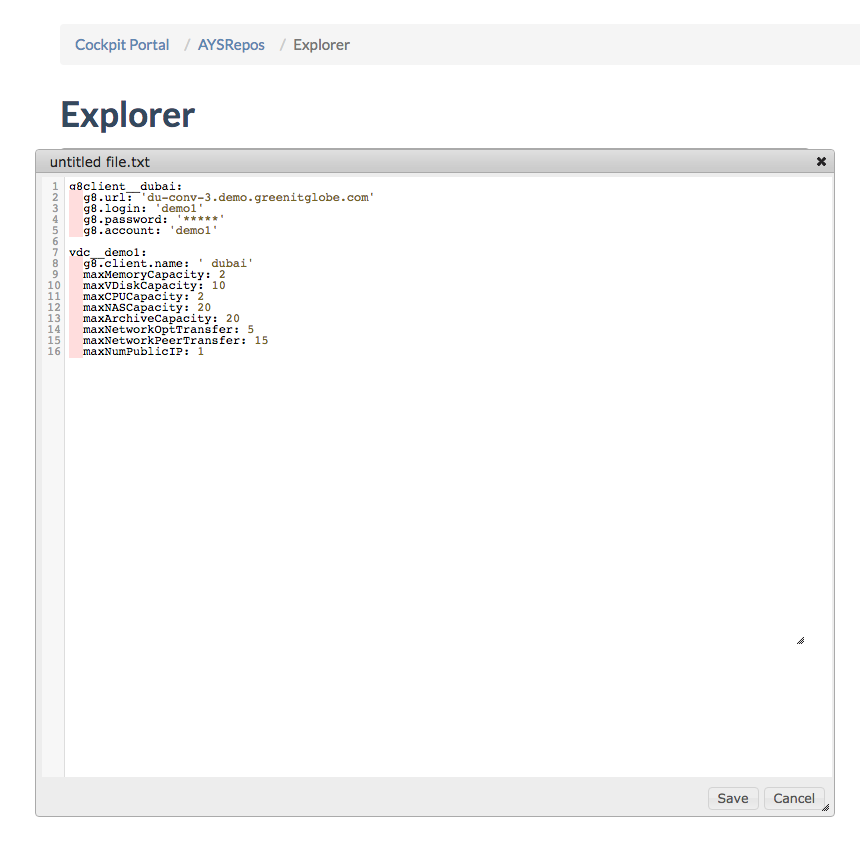
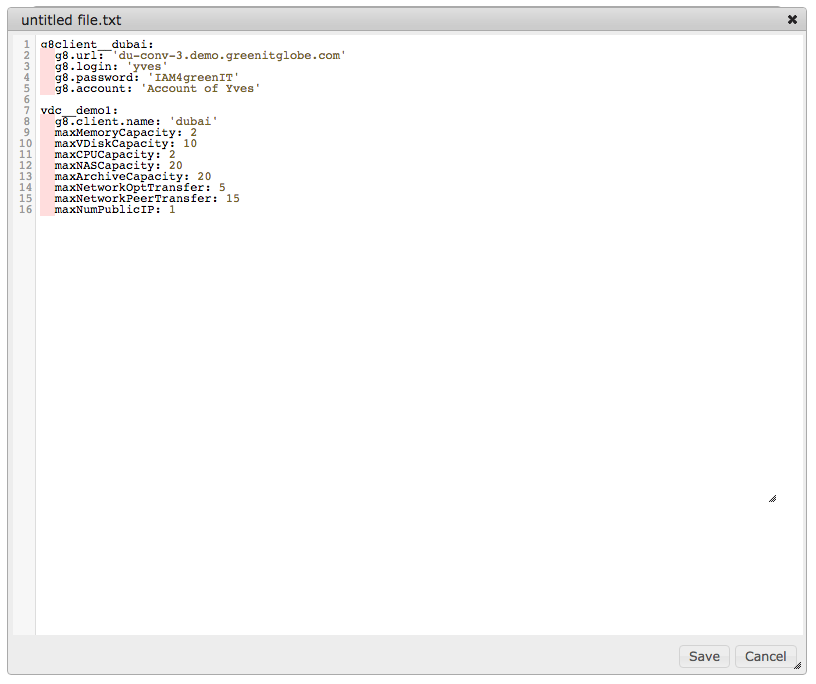
Updates some screenshots

Changed region(s): [[0.0, 0.0, 1.0, 0.4298], [0.8272, 0.9211, 0.9804, 0.9825]]

diff --git a/docs/usage/getting_started_with_blueprints.md b/docs/usage/getting_started_with_blueprints.md
@@ -43,12 +43,12 @@ Now that you have your repository ready, the next step is to create the blueprin
 ```yaml
 g8client__dubai:
   g8.url: 'du-conv-3.demo.greenitglobe.com'
-  g8.login: 'demo1'
-  g8.password: '*****'
-  g8.account: 'demo1'
+  g8.login: 'yves'
+  g8.password: '****'
+  g8.account: 'Account of Yves'
 
 vdc__demo1:
-  g8.client.name: ' dubai'
+  g8.client.name: 'dubai'
   maxMemoryCapacity: 2
   maxVDiskCapacity: 10
   maxCPUCapacity: 2
@@ -158,6 +158,6 @@ A message will tell you that the installation was scheduled:
 
 ## Congratulations
 
-You have just deployed a new VDC from your **Cockpit Portal** using AtYourService.
+You have just deployed a new VDC from your **Cockpit Portal** using AYS.
 
-You can go have a look in the instance page to check the state of your services and see that the `install` method has now a state `OK`.
+You can go have a look in the Instances page to check the state of your services and see that the `install` method has now a state `OK`.
